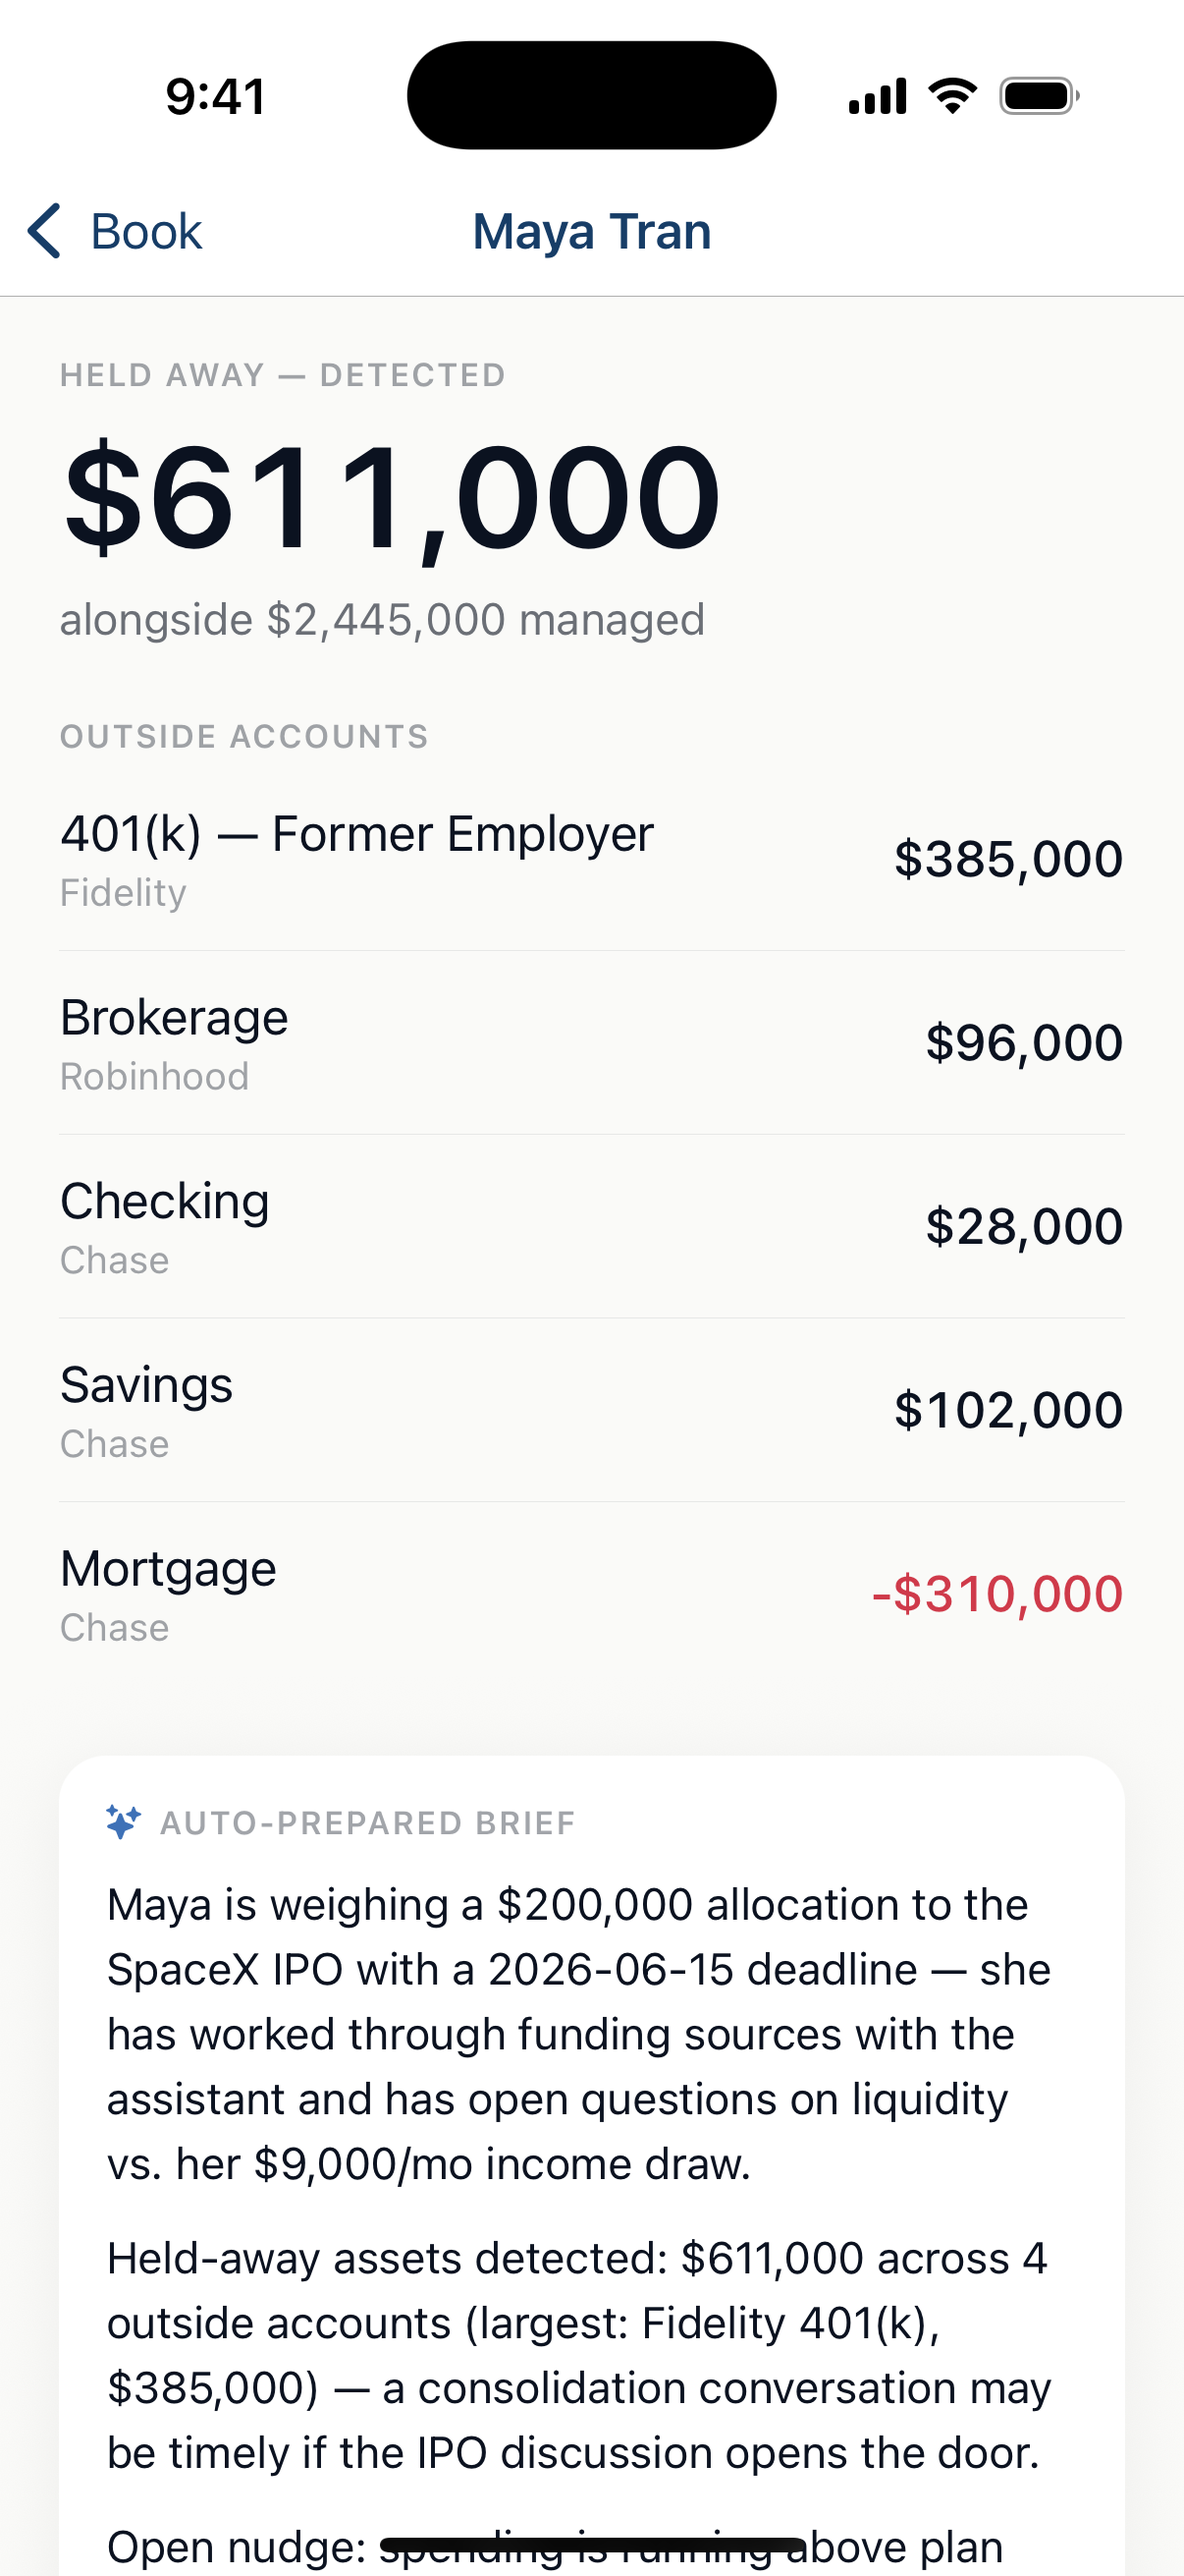
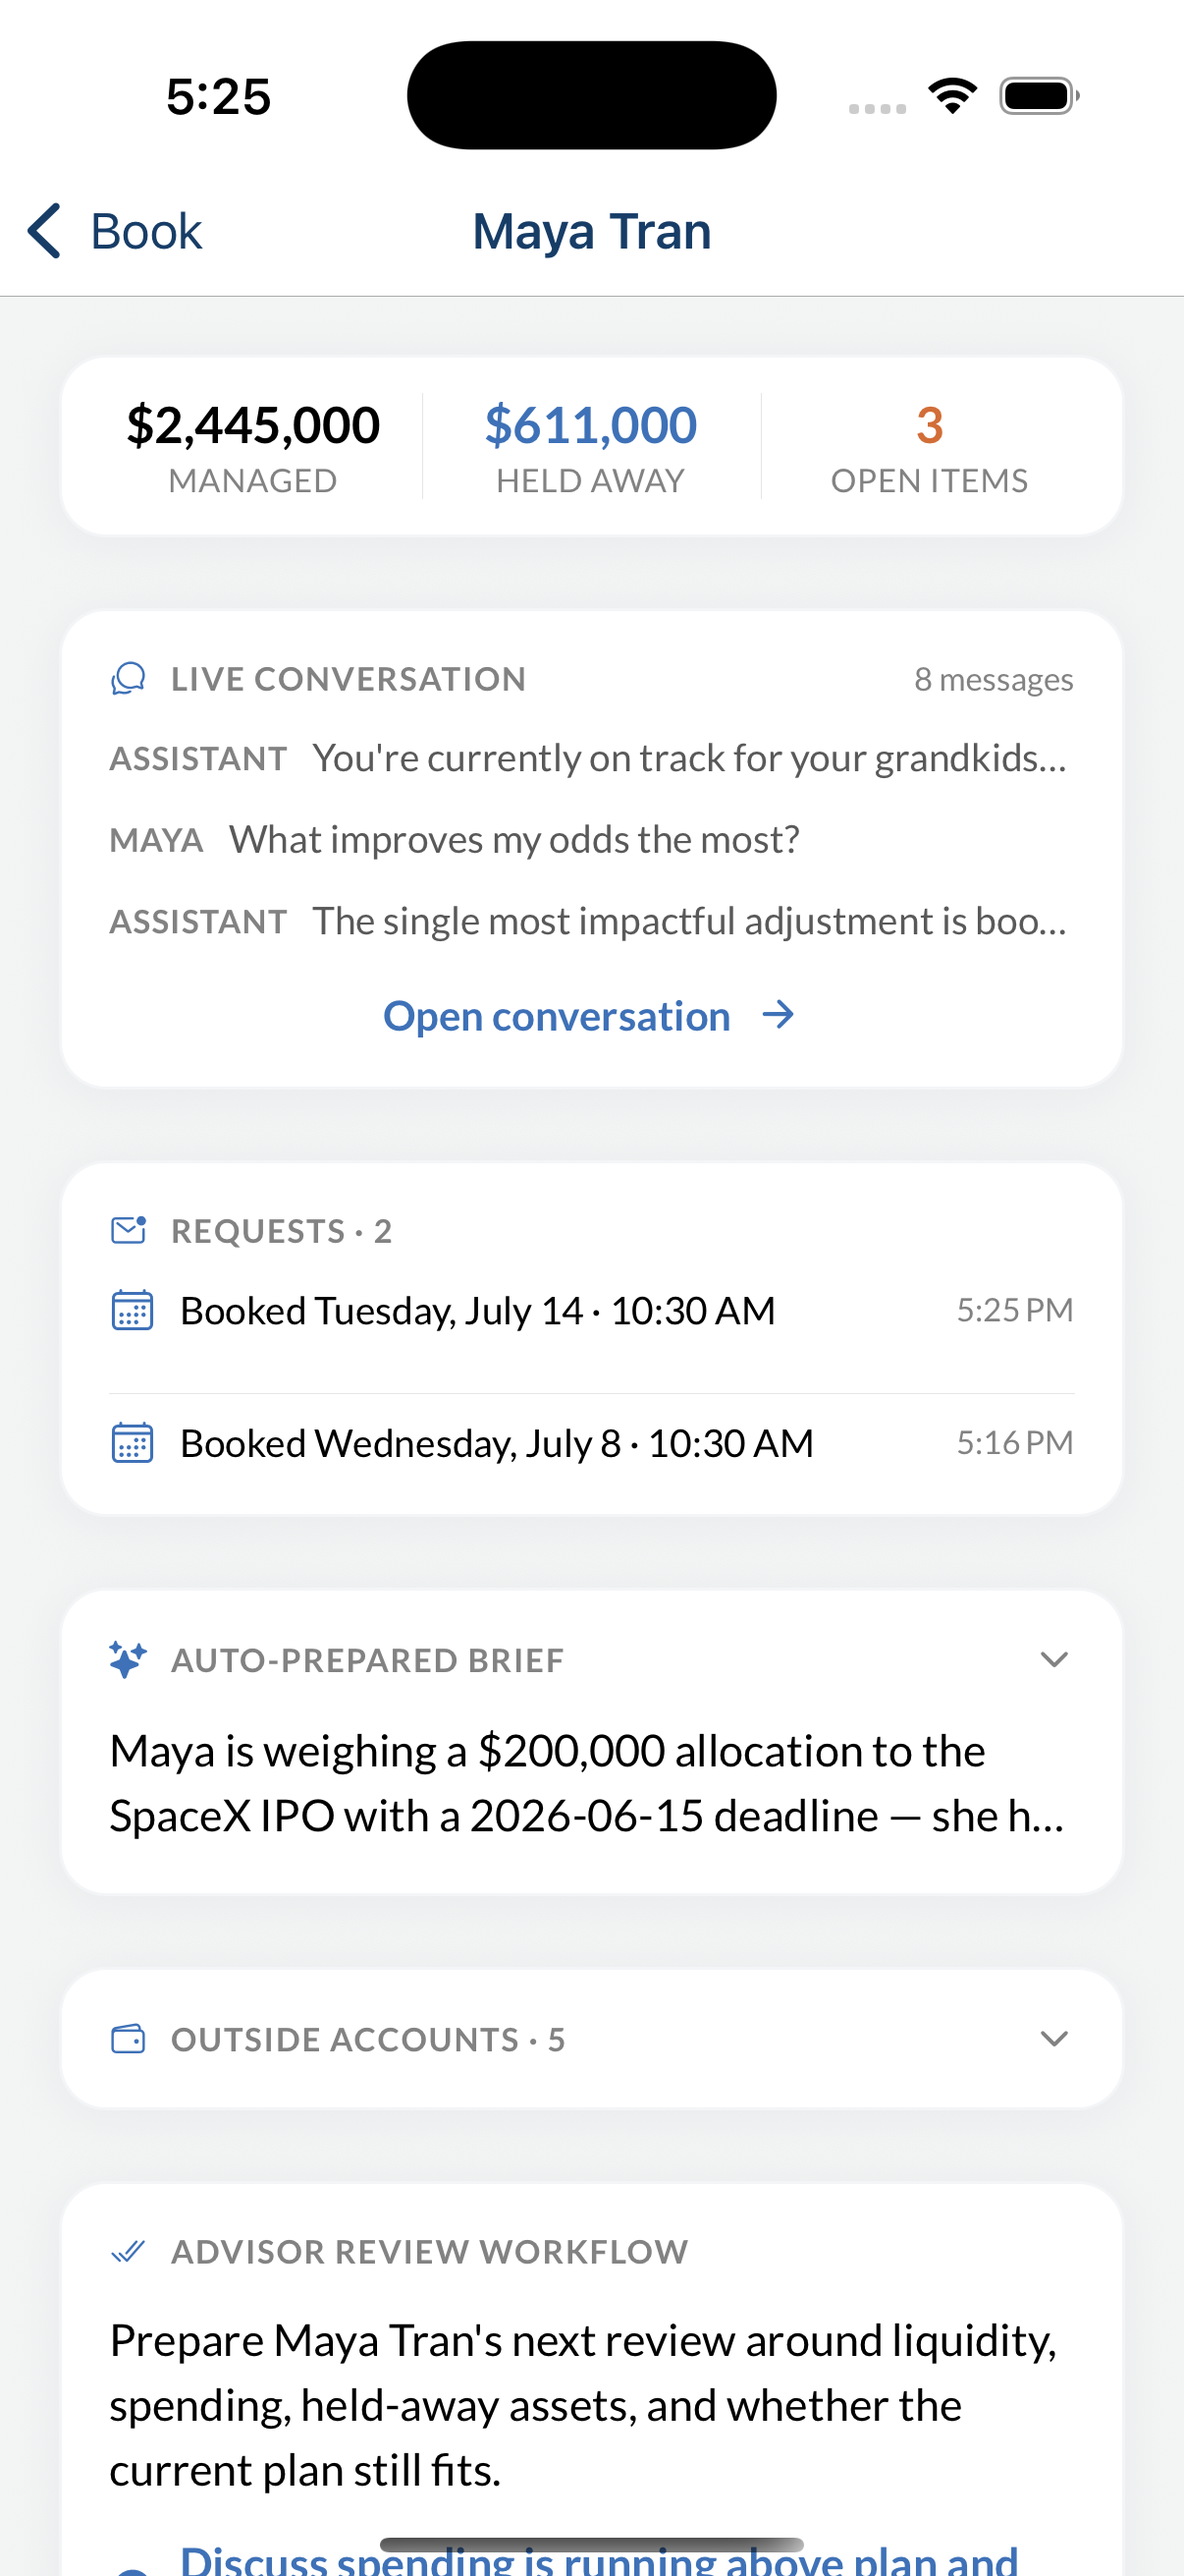
Launch page: document today's features with real captures
Feature grid gains live adjustable goals, Calendly-style booking with
the advisor request inbox, the client-at-a-glance advisor view, and
Face ID + the unified glass design (drops two weaker legacy cards).
Screens gallery replaced with seven fresh simulator captures: Home,
My goals, goals-in-chat, booking, advisor view, three-way thread,
vision. Changelog adds the build-14 'Up next' entry. Deployed to Fly.

diff --git a/launch/public/assets/content.js b/launch/public/assets/content.js
@@ -42,6 +42,16 @@ window.ALW_CONTENT = {
       body: "Mock Core-Satellite trades with tax impact and loss-harvesting flags. Nothing executes — it prepares the advisor.",
     },
     {
+      tag: "Goals",
+      title: "Live, adjustable goals",
+      body: "The real goals from the client's plan — funded status, projection, and the monthly amount that closes the gap. Turn the dials, save a plan, and both the assistant and the advisor plan around it.",
+    },
+    {
+      tag: "Concierge",
+      title: "Book a meeting, Calendly-style",
+      body: "Pick a day, pick a time from the advisor's availability, confirm. Bookings and topic requests land in the advisor's view of that client — no email round trip.",
+    },
+    {
       tag: "Advisory",
       title: "Advisor handoff",
       body: "Every substantive answer ends with a compliance-driven handoff — and can draft the note for the next meeting.",
@@ -49,35 +59,52 @@ window.ALW_CONTENT = {
     {
       tag: "Presence",
       title: "Advisors inside the thread",
-      body: "Advisors see the conversation and can step into it with their own message. Client, advisor, and assistant share one thread.",
+      body: "Advisors see the conversation live and can step into it with their own message. Client, advisor, and assistant share one thread.",
     },
     {
-      tag: "Relationship",
-      title: "Meeting notes",
-      body: "Past advisor meeting summaries surfaced in-app, so context never resets between conversations.",
+      tag: "Advisor view",
+      title: "The client at a glance",
+      body: "One screen per client: managed and held-away totals, open items, the live conversation, the request inbox, and an auto-prepared brief — no scrolling to find out what's going on.",
+    },
+    {
+      tag: "Access",
+      title: "Face ID and one design language",
+      body: "Biometric unlock on return, a single glass header that tucks away as you read, and a calm, summary-first layout on every screen.",
     },
     {
       tag: "Proactive",
       title: "Insight nudges",
       body: "Alerts that matter: spending running over plan, a concentrated position. The detail is one tap away.",
     },
-    {
-      tag: "Households",
-      title: "Two client profiles",
-      body: "Maya, semi-retired and income-focused, and Kenny, working through a concentrated NVDA position.",
-    },
   ],
 
   // Real captures live in assets/screenshots/. Until an image exists the frame
   // shows a tasteful placeholder, so the page is presentable before capture.
   screenshots: [
-    { file: "dashboard.png", caption: "Dashboard", sub: "Net worth, held & held-away" },
-    { file: "chat.png", caption: "Grounded chat", sub: "Live tool calls → sources" },
-    { file: "advisor.png", caption: "Advisor brief", sub: "Auto-prepared for the meeting" },
+    { file: "dashboard.png", caption: "Home", sub: "What needs attention, and the advisor in reach" },
+    { file: "goals.png", caption: "My goals", sub: "Real plan goals with adjustable funding" },
+    { file: "chat.png", caption: "Goals in chat", sub: "Ask, and the live tracker streams in" },
+    { file: "booking.png", caption: "Book a meeting", sub: "Pick a day, pick a time, confirmed" },
+    { file: "advisor.png", caption: "Advisor view", sub: "The client at a glance — requests included" },
+    { file: "conversation.png", caption: "Three-way thread", sub: "Advisor, client, and assistant together" },
     { file: "vision.png", caption: "Vision", sub: "The Client Intelligence Layer" },
   ],
 
   releases: [
+    {
+      build: 14,
+      version: "1.0.0",
+      date: "2026-07-03",
+      channel: "Up next",
+      title: "Real goals, real booking, one design language",
+      notes: [
+        "My goals is now a real tool: the goals from your plan with live funded status, adjustable monthly and timeline dials, and a saved plan the assistant and your advisor both use.",
+        "Book a meeting Calendly-style — a day strip and real time slots — and the request appears in the advisor's view alongside a new client-request inbox.",
+        "One glass header across every screen that tucks away as you scroll, Face ID unlock on return, and a glance-first layout: key state on the first screen, detail one tap deeper.",
+        "The advisor side grew up: a client-at-a-glance detail screen and a full-screen live conversation for reading and replying inside a client's thread.",
+        "Wealth is structure-first — what's managed, held away, and owed — with performance detail kept to tapped-in views.",
+      ],
+    },
     {
       build: 13,
       version: "1.0.0",
